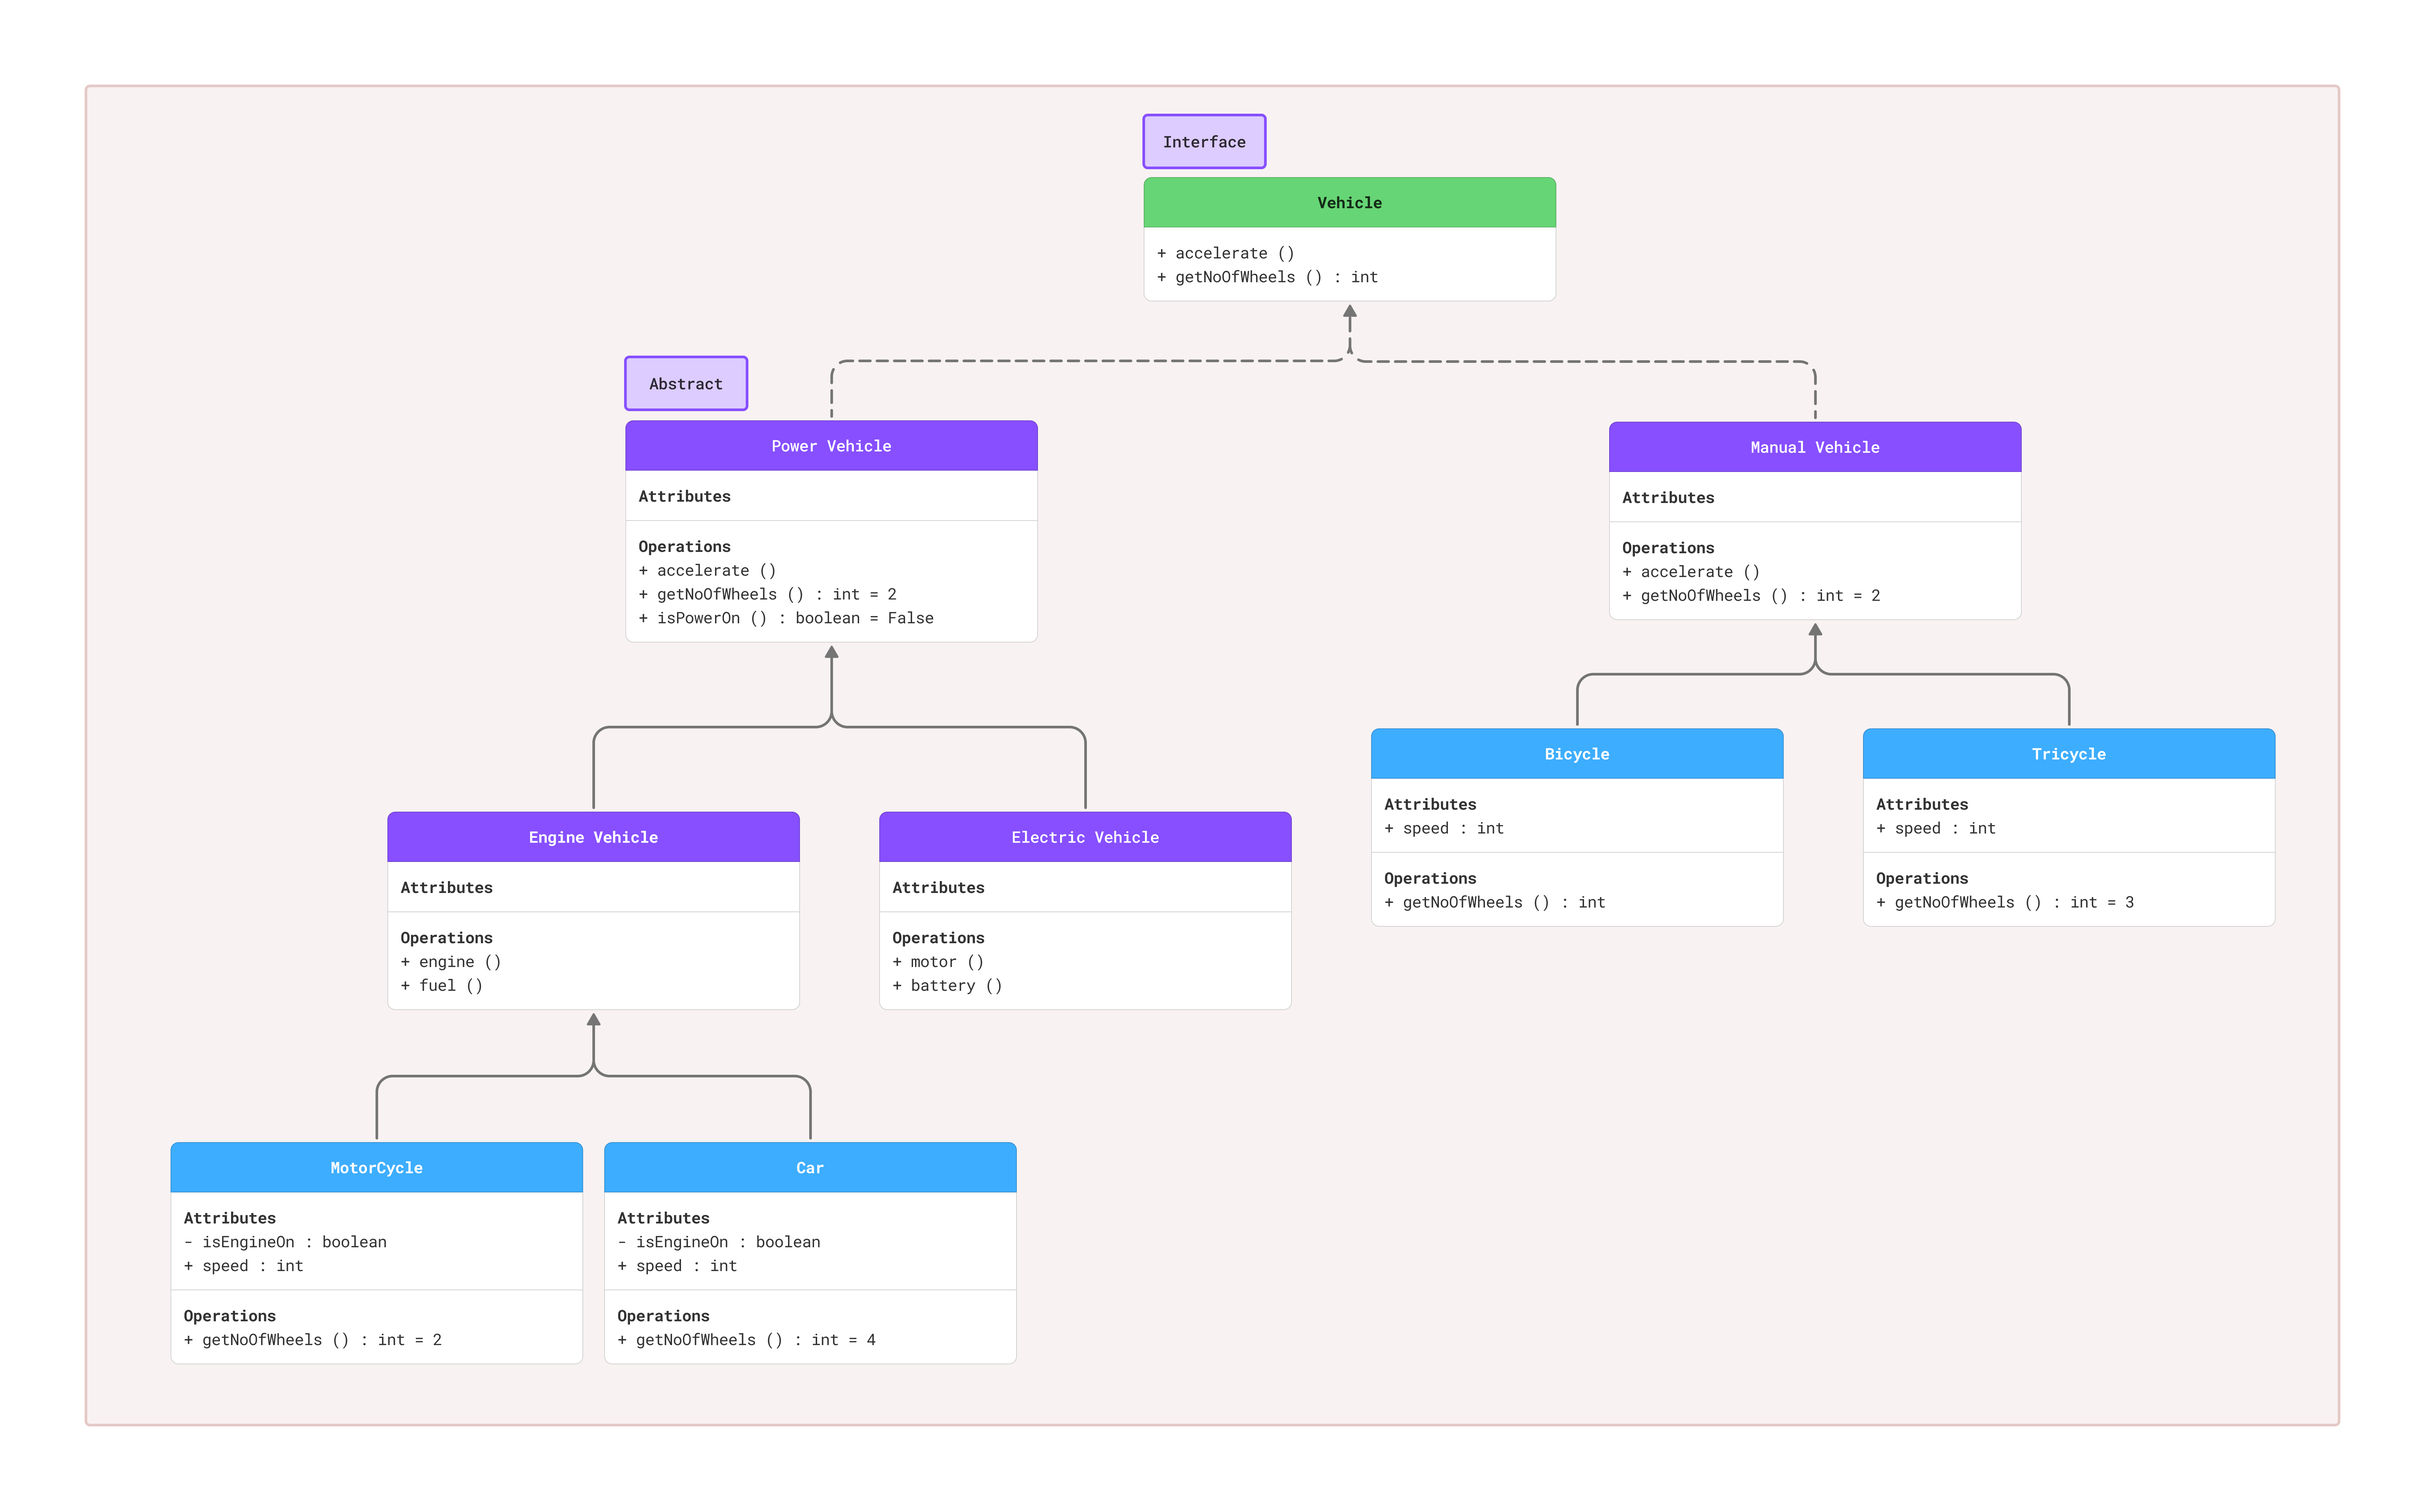
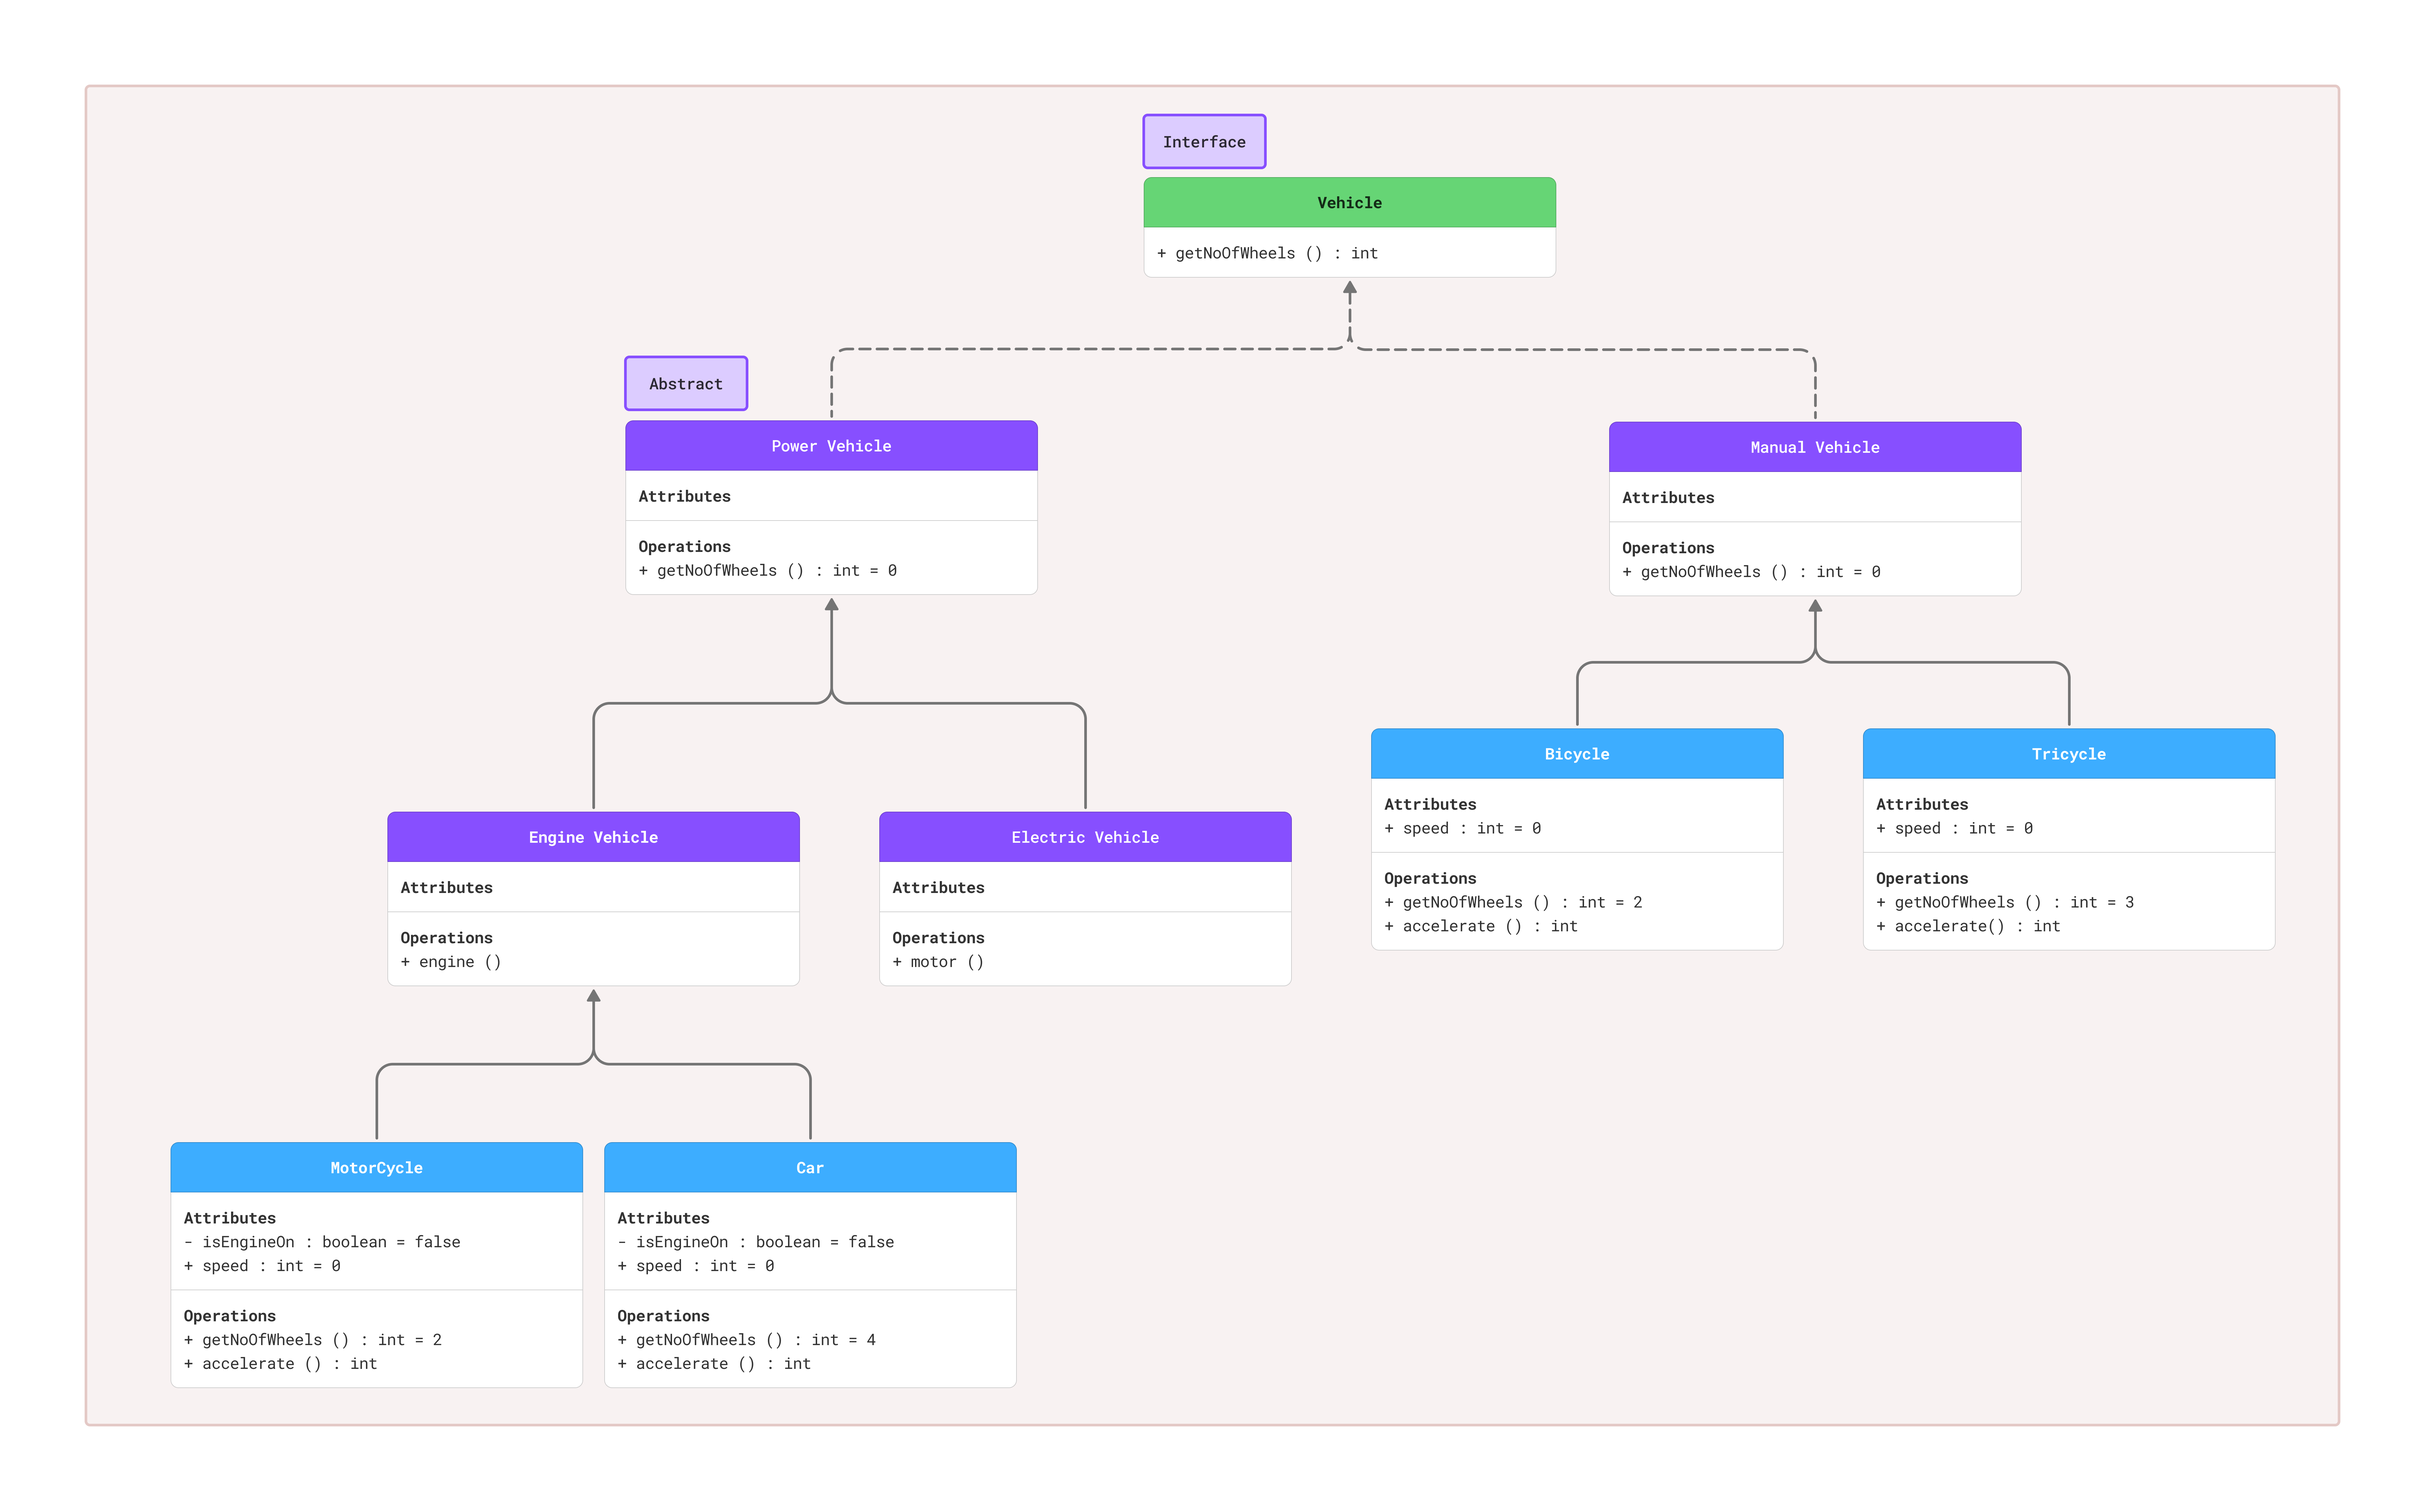
SOLID : Liskov Substitution Principle

diff --git a/src/solid/lsp/solution/impl/engine/MotorCycle.java b/src/solid/lsp/solution/impl/engine/MotorCycle.java
@@ -1,0 +1,31 @@
+package solid.lsp.solution.impl.engine;
+
+import solid.lsp.solution.abstracttypes.EngineVehicle;
+
+public class MotorCycle extends EngineVehicle {
+
+    private boolean isEngineOn = false;
+    public int speed = 0;
+
+    public MotorCycle () {}
+
+    @Override
+    public int getNoOfWheels() {
+        return 2;
+    }
+
+    @Override
+    public void engine() {
+        if (!this.isEngineOn){
+            this.isEngineOn = true;
+        }
+        System.out.println("Engine is On");
+    }
+
+    public int accelerate () {
+        if (this.isEngineOn) {
+            this.speed += 7;
+        }
+        return this.speed;
+    }
+}

diff --git a/src/solid/lsp/solution/impl/engine/Car.java b/src/solid/lsp/solution/impl/engine/Car.java
@@ -1,0 +1,31 @@
+package solid.lsp.solution.impl.engine;
+
+import solid.lsp.solution.abstracttypes.EngineVehicle;
+
+public class Car extends EngineVehicle {
+
+    private boolean isEngineOn = false;
+    public int speed = 0;
+
+    public Car () {}
+
+    @Override
+    public int getNoOfWheels() {
+        return 4;
+    }
+
+    @Override
+    public void engine() {
+        if (!this.isEngineOn){
+            this.isEngineOn = true;
+        }
+        System.out.println("Engine is On");
+    }
+
+    public int accelerate () {
+        if (this.isEngineOn) {
+            this.speed += 10;
+        }
+        return this.speed;
+    }
+}

diff --git a/src/solid/lsp/solution/app/Main.java b/src/solid/lsp/solution/app/Main.java
@@ -1,0 +1,14 @@
+package solid.lsp.solution.app;
+
+import solid.lsp.solution.impl.engine.Car;
+
+public class Main {
+    public static void main(String[] args) {
+
+        Car car = new Car();
+        System.out.println(car.accelerate());
+        car.engine();
+        System.out.println(car.accelerate());
+        System.out.println(car.accelerate());
+    }
+}

diff --git a/src/solid/lsp/solution/abstracttypes/ElectricVehicle.java b/src/solid/lsp/solution/abstracttypes/ElectricVehicle.java
@@ -1,0 +1,10 @@
+package solid.lsp.solution.abstracttypes;
+
+import StrategyDesignPattern.Problem.Vehicle;
+
+public abstract class ElectricVehicle extends Vehicle {
+
+    public void motor () {
+        System.out.println("This is the Electric Vehicle Motor");
+    }
+}

diff --git a/src/solid/lsp/solution/abstracttypes/ManualVehicle.java b/src/solid/lsp/solution/abstracttypes/ManualVehicle.java
@@ -1,0 +1,11 @@
+package solid.lsp.solution.abstracttypes;
+
+import solid.lsp.solution.api.Vehicle;
+
+public abstract class ManualVehicle implements Vehicle {
+
+    @Override
+    public int getNoOfWheels() {
+        return 0;
+    }
+}

diff --git a/src/solid/lsp/solution/abstracttypes/PowerVehicle.java b/src/solid/lsp/solution/abstracttypes/PowerVehicle.java
@@ -1,0 +1,11 @@
+package solid.lsp.solution.abstracttypes;
+
+import solid.lsp.solution.api.Vehicle;
+
+public abstract class PowerVehicle implements Vehicle {
+
+    @Override
+    public int getNoOfWheels() {
+        return 0;
+    }
+}

diff --git a/src/solid/lsp/solution/abstracttypes/EngineVehicle.java b/src/solid/lsp/solution/abstracttypes/EngineVehicle.java
@@ -1,0 +1,9 @@
+package solid.lsp.solution.abstracttypes;
+
+public abstract class EngineVehicle extends PowerVehicle{
+
+    public void engine () {
+        System.out.println("This is the Engine Vehicle Engine");
+    }
+
+}

diff --git a/src/solid/lsp/solution/impl/manual/Tricycle.java b/src/solid/lsp/solution/impl/manual/Tricycle.java
@@ -1,0 +1,7 @@
+package solid.lsp.solution.impl.manual;
+
+import solid.lsp.solution.abstracttypes.ManualVehicle;
+
+public class Tricycle extends ManualVehicle {
+
+}

diff --git a/src/solid/lsp/solution/impl/manual/Bicycle.java b/src/solid/lsp/solution/impl/manual/Bicycle.java
@@ -1,0 +1,6 @@
+package solid.lsp.solution.impl.manual;
+
+import solid.lsp.solution.abstracttypes.ManualVehicle;
+
+public class Bicycle extends ManualVehicle {
+}

diff --git a/src/solid/lsp/solution/api/Vehicle.java b/src/solid/lsp/solution/api/Vehicle.java
@@ -1,0 +1,7 @@
+package solid.lsp.solution.api;
+
+public interface Vehicle {
+
+    public int getNoOfWheels ();
+
+}
